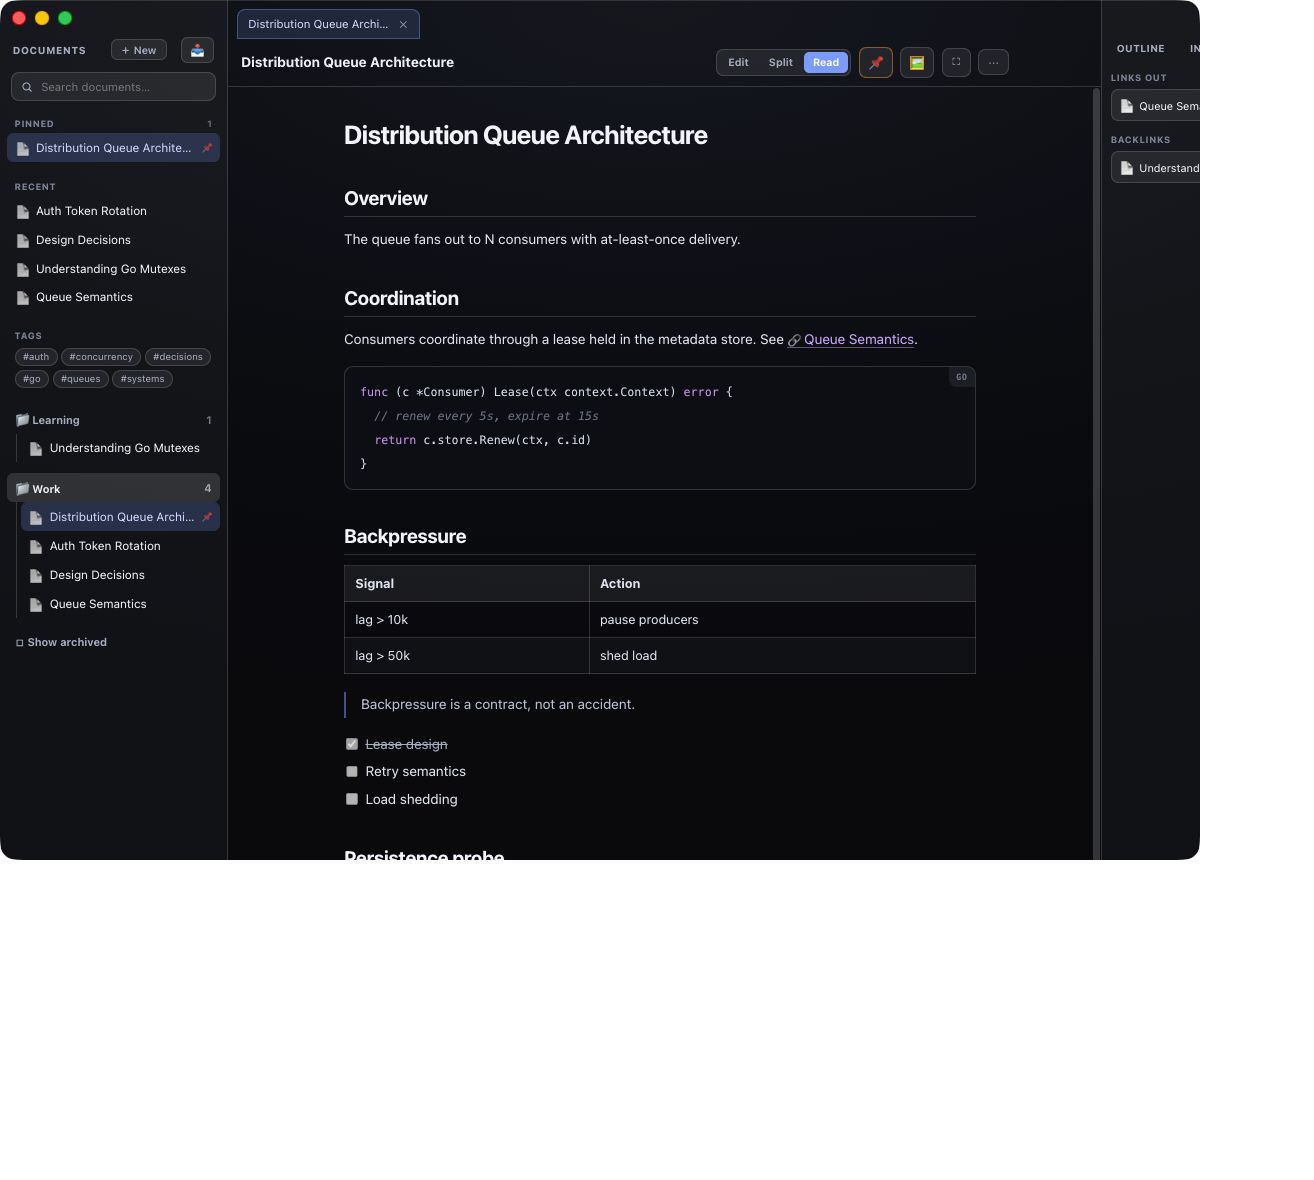
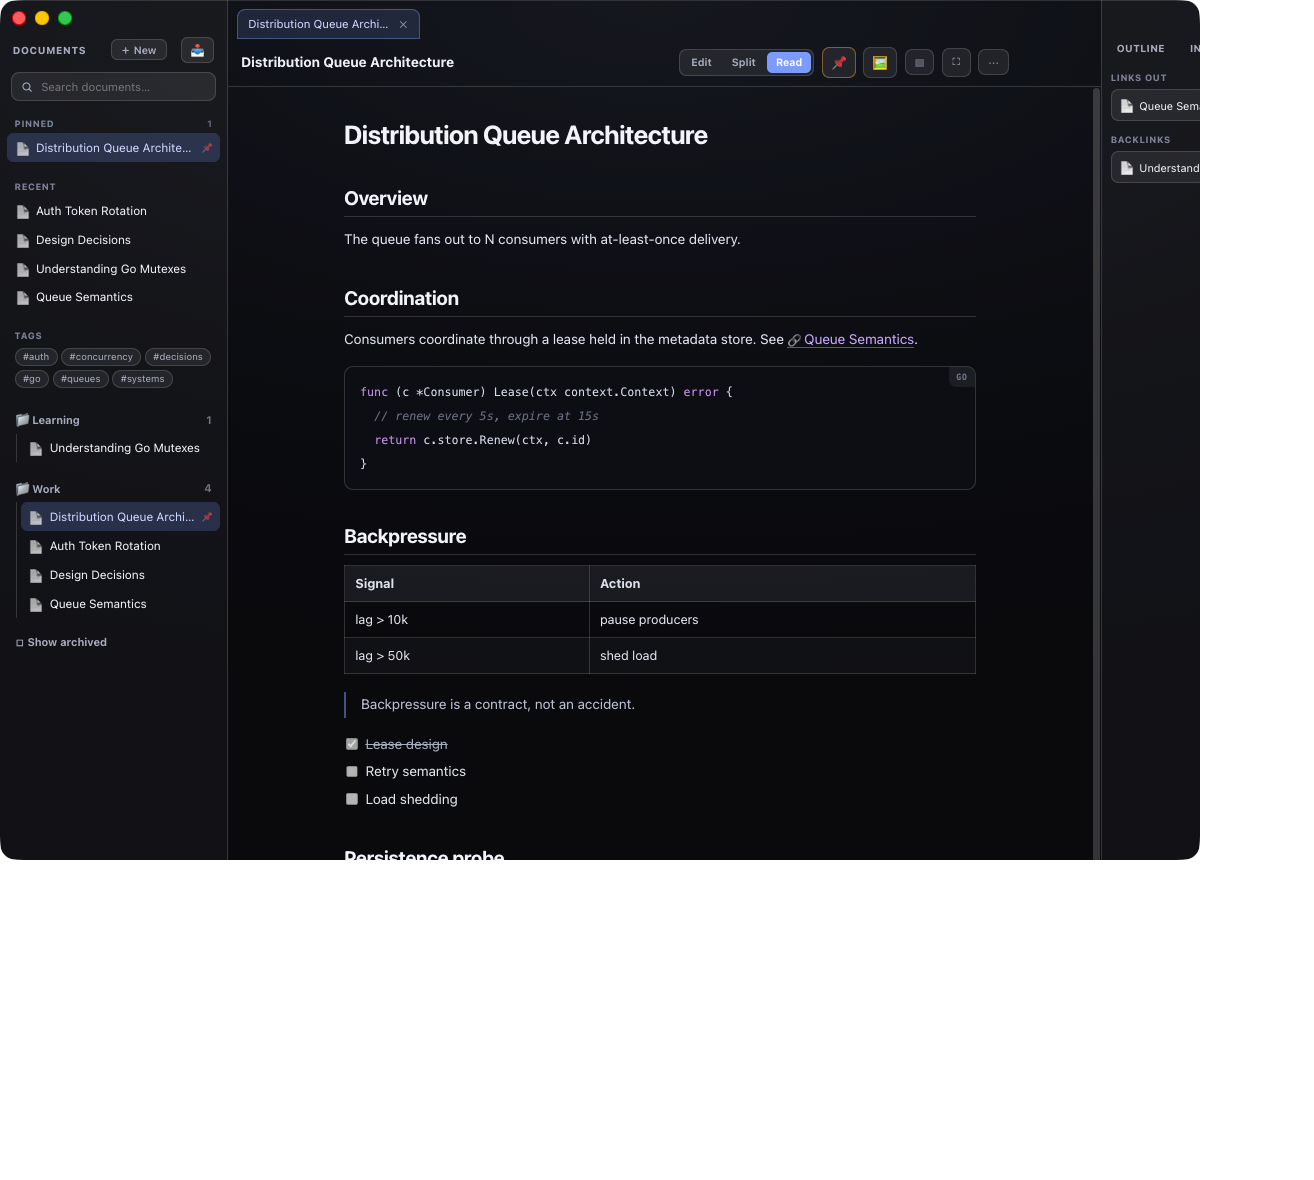
Fix the document workspace layout, and make carry-forward survive empty days
The workspace's mode overrides were written as `.ws.zen` / `.ws.side-hidden`
while the base template is `#page-docs .ws`, so the id selector always won and
the writing surface was placed in the 250px sidebar column instead of taking
the freed space. Distraction-free mode in particular squeezed the editor into a
sliver. The overrides now carry the same prefix, and a hidden pane leaves the
grid entirely rather than collapsing to a zero-width column, so each template
lists only the columns still in flow.

With the tab strip hidden, nothing held the document bar clear of the frameless
window's traffic lights, so the title sat underneath them in zen mode.

Between 760 and 1080px the outline panel became an off-canvas drawer with no
control to open it. It now has a button in the document bar, and both drawers
are `visibility: hidden` while closed so a keyboard user cannot tab into a pane
that is parked off-screen.

Carry-forward keyed off "does a file exist for this day", so a single empty day
file — which a stray save can create — left that day and every day after it
showing a blank board. It now keys off "this day has no tasks", walks back to
the most recent day that actually has unfinished work rather than stopping at
an empty one, and carries project / learning / dependency links along with the
task. A day the user empties on purpose records `noCarry` and is left alone.

Also: the Continue strip is gone from Today (a hidden horizontal scroller full
[…]

Changed region(s): [[0.5304, 0.0305, 0.7177, 0.061], [0.0, 0.3966, 0.1872, 0.4271]]

diff --git a/public/index.html b/public/index.html
@@ -1298,6 +1298,12 @@
   @media (max-width: 720px) { .tm-links { grid-template-columns: 1fr; } }
 
   /* ==================== RESPONSIVE ==================== */
+  @media (max-width: 860px) {
+    /* A hidden horizontal scroller is a poor way to reach half the app, so on
+       narrow windows the nav wraps onto as many rows as it needs. */
+    .mainnav { flex-wrap: wrap; overflow-x: visible; }
+    .nav-btn { flex: 1 1 auto; justify-content: center; }
+  }
   @media (max-width: 720px) {
     .page-inner { padding: 26px 16px 100px; }
     .page-head h2 { font-size: 22px; }
@@ -1518,13 +1524,22 @@
   .ws-side, .ws-rail { display: flex; flex-direction: column; min-height: 0;
     background: rgba(255,255,255,.022); border-right: 1px solid var(--line); }
   .ws-rail { border-right: none; border-left: 1px solid var(--line); }
-  .ws.side-hidden { grid-template-columns: 0 minmax(0,1fr) 224px; }
-  .ws.side-hidden .ws-side { display: none; }
-  .ws.rail-hidden { grid-template-columns: 250px minmax(0,1fr) 0; }
-  .ws.rail-hidden .ws-rail { display: none; }
-  .ws.side-hidden.rail-hidden { grid-template-columns: 0 minmax(0,1fr) 0; }
-  .ws.zen { grid-template-columns: 0 minmax(0,1fr) 0; }
-  .ws.zen .ws-side, .ws.zen .ws-rail, .ws.zen .ws-tabs { display: none; }
+  /* These must out-specify `#page-docs .ws` above, hence the id prefix —
+     without it the base three-column template wins and the writing surface
+     gets squeezed into the sidebar's column. A hidden pane leaves the grid
+     entirely, so each template lists only the columns still in flow. */
+  #page-docs .ws.side-hidden { grid-template-columns: minmax(0,1fr) 224px; }
+  #page-docs .ws.side-hidden .ws-side { display: none; }
+  #page-docs .ws.rail-hidden { grid-template-columns: 250px minmax(0,1fr); }
+  #page-docs .ws.rail-hidden .ws-rail { display: none; }
+  #page-docs .ws.side-hidden.rail-hidden { grid-template-columns: minmax(0,1fr); }
+  #page-docs .ws.zen { grid-template-columns: minmax(0,1fr); }
+  #page-docs .ws.zen .ws-side, #page-docs .ws.zen .ws-rail, #page-docs .ws.zen .ws-tabs { display: none; }
+  /* With the tab strip hidden there is nothing holding the bar clear of the
+     frameless window's traffic lights, so the title would sit under them. */
+  #page-docs .ws.zen .ws-bar { padding-top: 34px; -webkit-app-region: drag; }
+  #page-docs .ws.zen .ws-bar > * { -webkit-app-region: no-drag; }
+  #page-docs .ws.zen .ws-editor { padding-top: 12px; }
 
   .ws-side-head { display: flex; align-items: center; gap: 8px; padding: 40px 14px 10px; -webkit-app-region: drag; }
   .ws-side-head > * { -webkit-app-region: no-drag; }
@@ -1599,6 +1614,7 @@
     font-family: inherit; font-size: 12px; padding: 6px 10px; border-radius: 8px; cursor: pointer; flex-shrink: 0; }
   .ws-act:hover { color: var(--text); background: var(--panel-2); }
   .ws-act.on { color: #f5c26b; border-color: rgba(245,166,35,.4); }
+  .ws.zen .ws-act-rail { display: none; }
   .ws-status { font-size: 11px; color: var(--muted); flex-shrink: 0; min-width: 78px; text-align: right;
     transition: color var(--t-base); }
   .ws-status.saving { color: #f5c26b; }
@@ -1754,19 +1770,25 @@
      ===================================================================== */
   @media (max-width: 1080px) {
     #page-docs .ws { grid-template-columns: 220px minmax(0,1fr); }
+    /* Closed drawer: pushed off-canvas and taken out of the tab order. */
+    .ws-rail { visibility: hidden; }
+    #page-docs .ws.rail-open .ws-rail { visibility: visible; }
     .ws-rail { position: fixed; top: 0; right: 0; bottom: 0; width: 260px; z-index: 8;
       background: #101219; box-shadow: -12px 0 40px rgba(0,0,0,.5); transform: translateX(100%);
       transition: transform var(--t-base) var(--ease-out); }
-    .ws.rail-open .ws-rail { display: flex; transform: none; }
-    .ws.rail-hidden .ws-rail { display: flex; }
+    #page-docs .ws.rail-open .ws-rail { display: flex; transform: none; }
+    #page-docs .ws.rail-hidden .ws-rail { display: flex; }
   }
   @media (max-width: 760px) {
     #page-docs .ws { grid-template-columns: minmax(0,1fr); }
+    /* Closed drawer: off-canvas and out of the tab order until it is opened. */
+    .ws-side { visibility: hidden; }
+    #page-docs .ws.side-open .ws-side, #page-docs .ws.side-hidden .ws-side { visibility: visible; }
     .ws-side { position: fixed; top: 0; left: 0; bottom: 0; width: 264px; z-index: 9;
       background: #101219; box-shadow: 12px 0 40px rgba(0,0,0,.5); transform: translateX(-100%);
       transition: transform var(--t-base) var(--ease-out); }
-    .ws.side-open .ws-side { display: flex; transform: none; }
-    .ws.side-hidden .ws-side { display: flex; }
+    #page-docs .ws.side-open .ws-side { display: flex; transform: none; }
+    #page-docs .ws.side-hidden .ws-side { display: flex; }
     .ws-side-toggle { display: grid; place-items: center; position: absolute; top: 12px; left: 12px;
       z-index: 7; width: 34px; height: 34px; background: var(--panel); border: 1px solid var(--line);
       color: var(--text); border-radius: 9px; cursor: pointer; }
@@ -2122,7 +2144,6 @@
 
   <div class="resurface" id="resurface" style="display:none"></div>
   <div class="inboxnudge" id="inboxNudge" style="display:none"></div>
-  <div class="contstrip" id="continueStrip" style="display:none"></div>
   <div class="dayhints" id="dayHints" style="display:none"></div>
   <div class="learn-today" id="learnTodayCard"></div>
 
@@ -2783,12 +2804,19 @@ async function load() {
   const data = await (await fetch('/api/tasks?date=' + iso(current))).json();
   tasks = (data.tasks || []).map(normalize);
 
-  // Carry over unfinished tasks from the most recent prior day —
-  // only into a fresh, unopened day that is today or later.
-  const isFresh = !days.includes(iso(current));
+  // Carry over unfinished tasks from the most recent prior day.
+  // An *empty* day file must not block this: one can appear from a stray save,
+  // and then that day would show a blank board forever. So the trigger is "no
+  // tasks on a day that is today or later", not "no file". A day the user
+  // emptied on purpose sets `noCarry` and is left alone.
   const todayMidnight = new Date(new Date().toDateString());
   const curMidnight = new Date(current.toDateString());
-  if (isFresh && tasks.length === 0 && curMidnight >= todayMidnight) {
+  const carryable = tasks.length === 0 && curMidnight >= todayMidnight;
+  let preMeta = null;
+  if (carryable) {
+    try { preMeta = (await (await fetch('/api/meta?date=' + iso(current))).json()).meta || {}; } catch { preMeta = {}; }
+  }
+  if (carryable && !preMeta.noCarry) {
     const carried = await carryForward(days);
     if (carried.length) { tasks = carried; save(); }
   }
@@ -3055,19 +3083,25 @@ if (DESKTOP) {
 
 
 async function carryForward(days) {
-  const prior = days.filter((d) => d < iso(current)).sort();
-  if (!prior.length) return [];
-  const src = prior[prior.length - 1];
-  const r = await (await fetch('/api/tasks?date=' + src)).json();
-  return (r.tasks || [])
-    .map(normalize)
-    .filter((t) => t.status !== 'done')
-    .map((t) => ({
+  const prior = days.filter((d) => d < iso(current)).sort().reverse();
+  // Walk back to the most recent day that actually has unfinished work. An
+  // empty day file in between must not swallow the carry.
+  for (const src of prior.slice(0, 14)) {
+    let arr = [];
+    try { arr = ((await (await fetch('/api/tasks?date=' + src)).json()).tasks || []); } catch { continue; }
+    const open = arr.map(normalize).filter((t) => t.status !== 'done');
+    if (!open.length) continue;
+    return open.map((t) => ({
       id: uid(), text: t.text, status: t.status, people: t.people.slice(), carried: true,
       carryCount: (t.carryCount || 0) + 1,
       estimateMin: t.estimateMin || null, note: t.note || '', pickupDate: t.pickupDate || null,
       createdAt: Date.now(), doneAt: null,
+      // Relationships travel with the task — a carried task is the same work.
+      projectId: t.projectId || null, learningId: t.learningId || null,
+      dependsOn: (t.dependsOn || []).slice(),
     }));
+  }
+  return [];
 }
 
 let saveTimer;
@@ -3539,7 +3573,13 @@ $('#tmEstUnit').onchange = tmCommitEst;
 $('#tmDelete').onclick = () => {
   const t = editingTask(); if (!t) return;
   const card = document.querySelector('.card[data-id="' + t.id + '"]');
-  const removeIt = () => { tasks = tasks.filter((x) => x.id !== t.id); closeTaskModal(); render(); save(); };
+  const removeIt = () => {
+    tasks = tasks.filter((x) => x.id !== t.id);
+    // Clearing the last task is a deliberate "this day is empty" — remember it
+    // so the next load does not helpfully carry everything back in.
+    if (!tasks.length) { meta.noCarry = true; saveMeta(); }
+    closeTaskModal(); render(); save();
+  };
   if (card) leaveThen(card, removeIt); else removeIt();
 };
 document.querySelectorAll('#tmStatus button').forEach((b) => {
@@ -4660,6 +4700,7 @@ function renderDocSurface() {
     '</div>' +
     '<button class="ws-act' + (d.pinned ? ' on' : '') + '" id="docPin" title="Pin">' + (d.pinned ? '📌' : '📍') + '</button>' +
     '<button class="ws-act" id="docImg" title="Insert image">🖼</button>' +
+    '<button class="ws-act ws-act-rail" id="docRailBtn" title="Outline / info / links">▤</button>' +
     '<button class="ws-act" id="docZenBtn" title="Distraction-free writing (⌘.)">⛶</button>' +
     '<button class="ws-act" id="docMore" title="More actions">⋯</button>' +
     '<span class="ws-status" id="docStatus"></span>';
@@ -4679,6 +4720,15 @@ function renderDocSurface() {
     renderDocSurface(); renderDocTree();
   };
   $('#docImg').onclick = () => $('#docImgPicker').click();
+  $('#docRailBtn').onclick = () => {
+    // Under 1080px the panel is an overlay drawer, so it opens rather than
+    // collapsing a column that is no longer in the layout.
+    const drawer = innerWidth <= 1080;
+    wsEl().classList.toggle(drawer ? 'rail-open' : 'rail-hidden');
+    $('#docRailBtn').classList.toggle('on', drawer
+      ? wsEl().classList.contains('rail-open')
+      : !wsEl().classList.contains('rail-hidden'));
+  };
   $('#docZenBtn').onclick = toggleDocZen;
   $('#docMore').onclick = openDocMenu;
 }
@@ -5884,7 +5934,6 @@ function renderInboxPage() {
 // Compact strips, not another dashboard.
 // =====================================================================
 function renderTodayExtras() {
-  renderContinueStrip();
   renderDayHints();
   renderResurfaceCard();
   renderInboxNudge();
